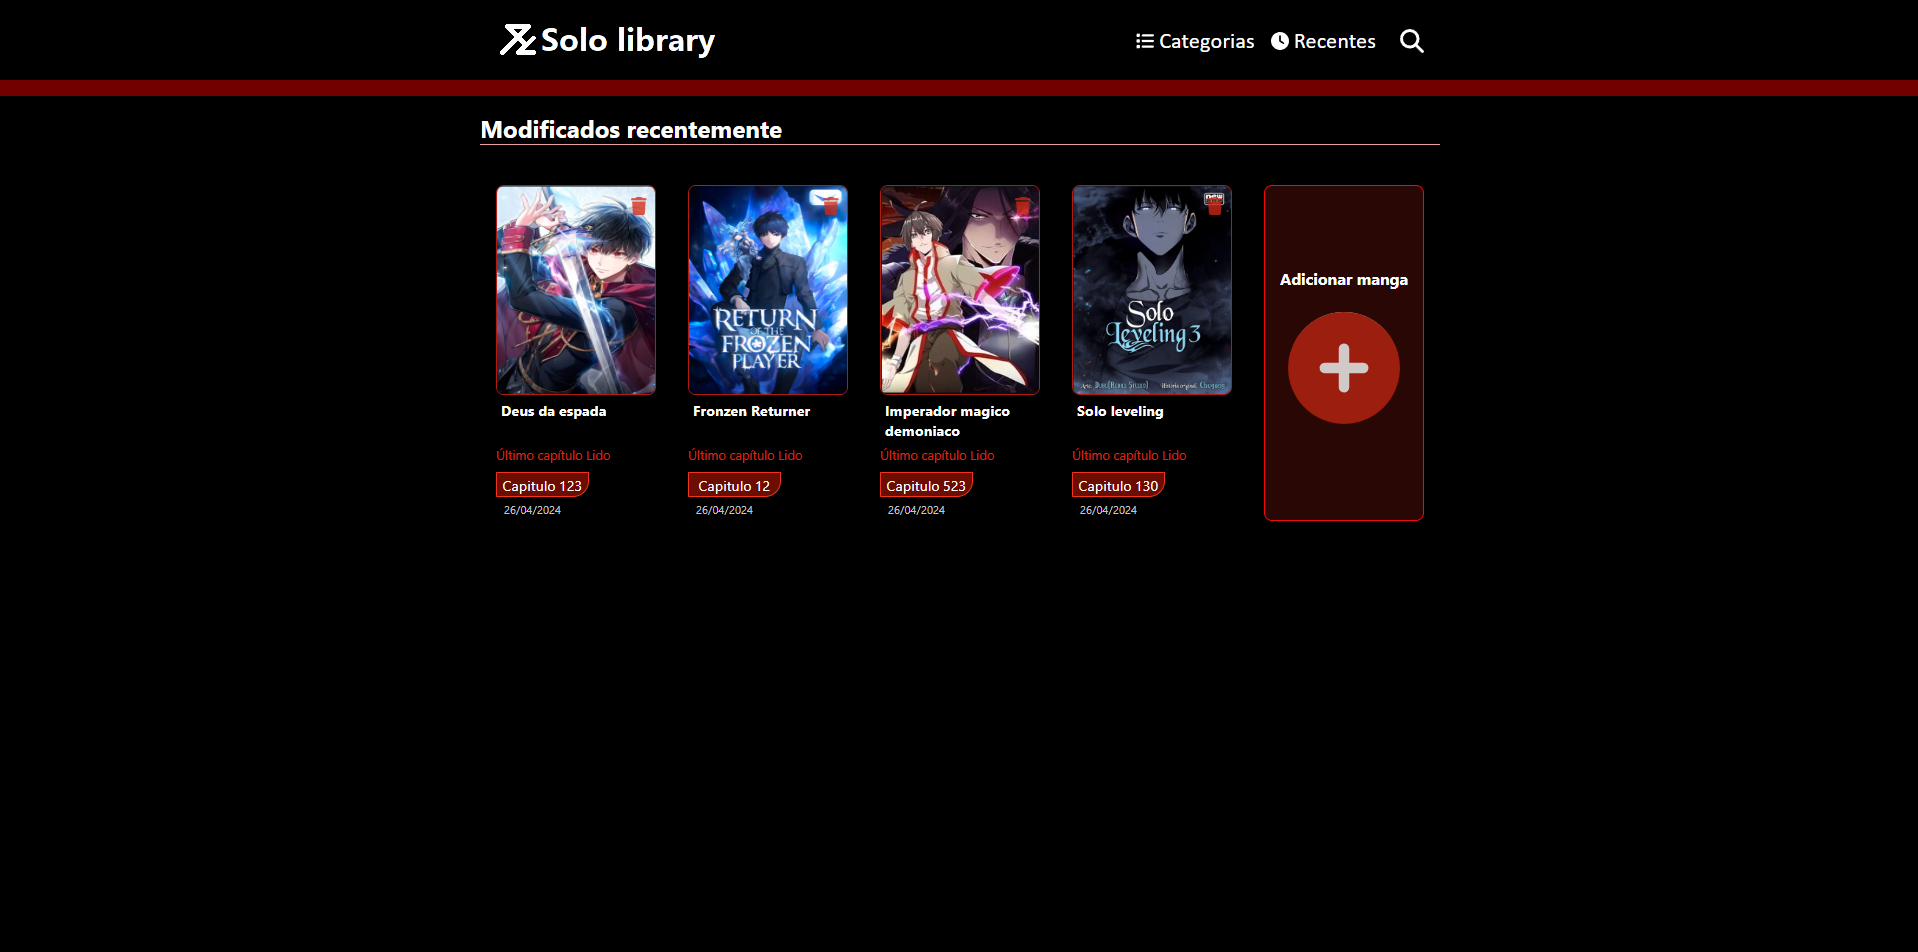
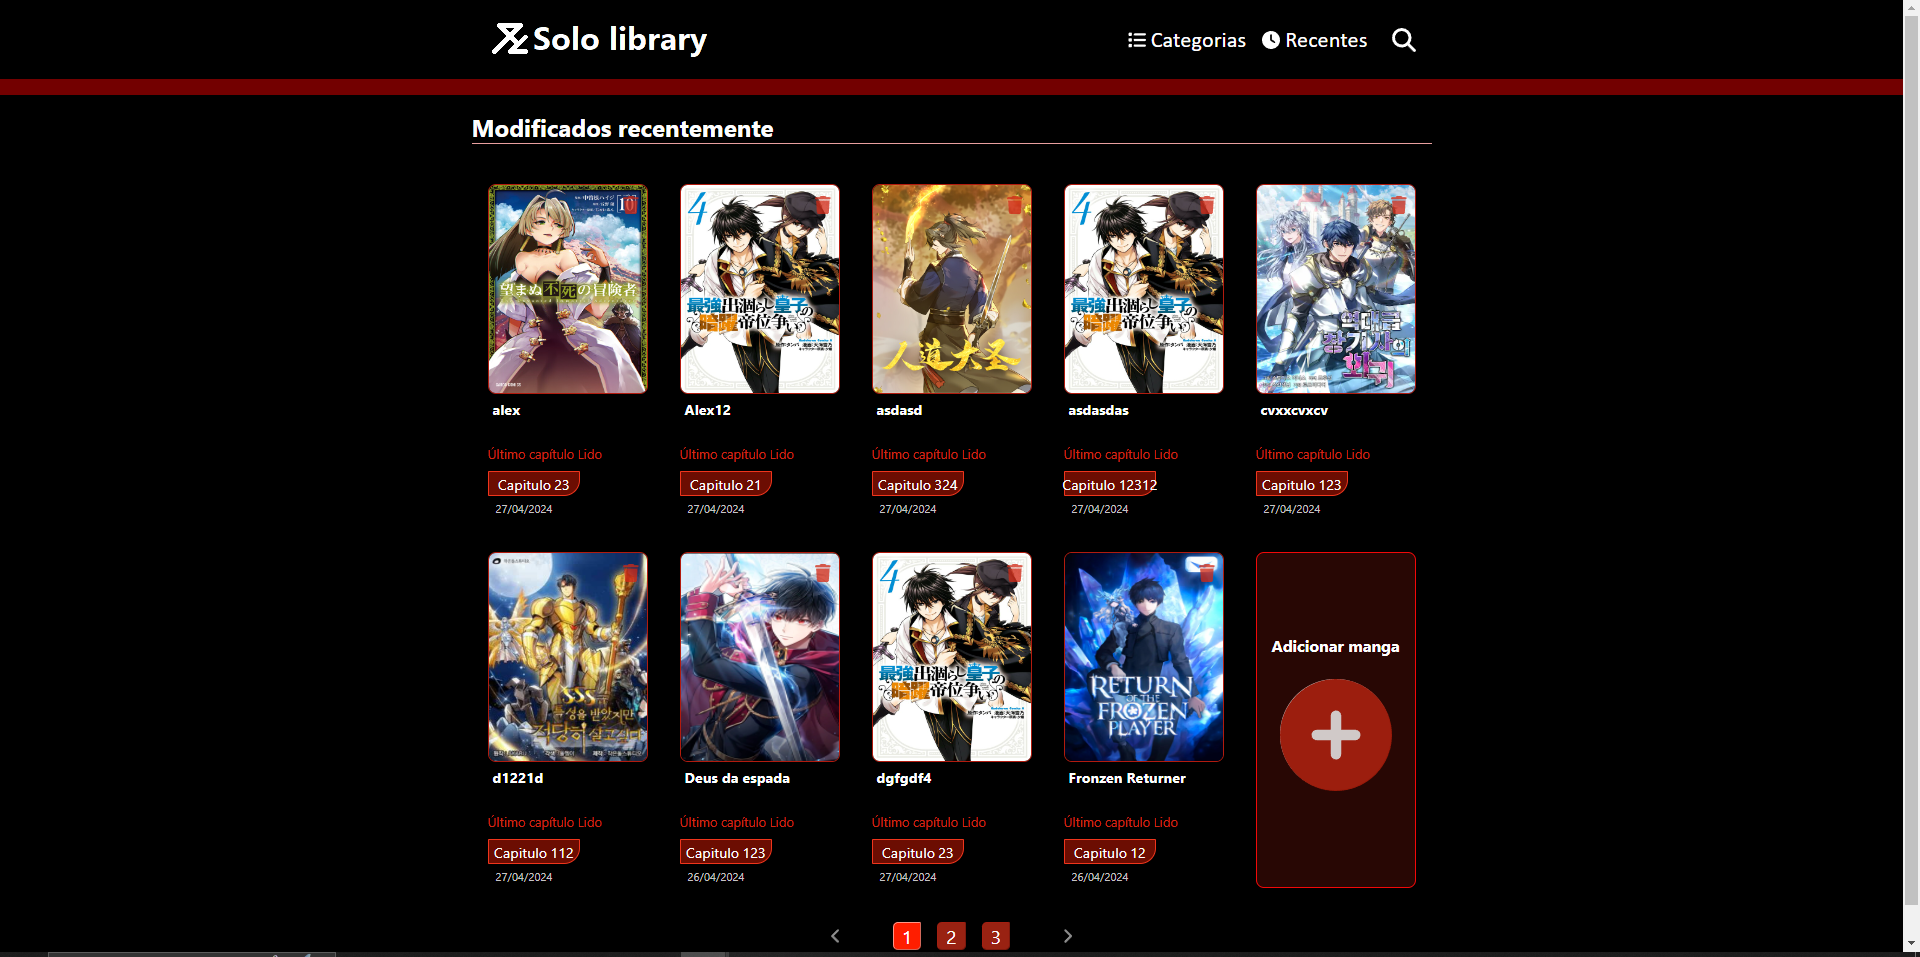
Adição da funcionalidade de paginação
criação do layout e funcionalidade para passar paginas.

diff --git a/library-app/src/app/components/flip-pages/flip-pages.component.ts b/library-app/src/app/components/flip-pages/flip-pages.component.ts
@@ -1,0 +1,43 @@
+import { Component, OnInit, Input } from '@angular/core';
+import { faAngleLeft, faAngleRight } from '@fortawesome/free-solid-svg-icons';
+import { CardApiService } from 'src/app/service/card-api.service';
+import { HomeComponent } from 'src/app/pages/home/home.component';
+
+@Component({
+  selector: 'app-flip-pages',
+  templateUrl: './flip-pages.component.html',
+  styleUrls: ['./flip-pages.component.css']
+})
+export class FlipPagesComponent implements OnInit {
+
+  faAngleLeft = faAngleLeft;
+  faAngleRight = faAngleRight;
+  totalPages!:number;
+  pagesCount!: number[];
+  selectedPage: number = 0; 
+  @Input() countPages:number = 0;
+
+
+  
+  constructor(
+    private mangaService: CardApiService,
+    private homecomponent: HomeComponent
+  ) { }
+
+ 
+  ngOnInit(): void {
+    this.mangaService.getNumberPages().subscribe(async (response: any) => {
+      this.totalPages = response;
+      this.pagesCount = Array(this.totalPages).fill(0).map((x, i) => i + 1)
+    })
+  }
+
+  handleButtonClick(event: MouseEvent, page: number){
+    event.preventDefault();
+    if(page >= 0 && page < this.totalPages){
+      this.selectedPage = page
+      this.homecomponent.getMangas(page)
+    }
+  }
+
+}

diff --git a/library-app/src/app/components/flip-pages/flip-pages.component.css b/library-app/src/app/components/flip-pages/flip-pages.component.css
@@ -1,0 +1,52 @@
+.flip-pages-container{
+    display: flex;
+    align-items: center;
+    justify-content: space-around;
+    width: 18rem;
+    height: 2rem;
+    border: 1px solid #f0351c00;
+    border-radius: 10px;
+    margin: 2rem 0 3rem 0;
+    color: white;
+}
+
+.flip-pages-container{
+    margin:2rem auto;
+}
+
+.page-list{
+    text-decoration: none;
+    list-style: none;
+    display: flex;
+    font-size: 1.2rem;
+}
+
+.number-click{
+    background-color: #f0351ca3;
+    border: 1px outset #b21c0e78;
+    border-radius: 5px 1px 5px 5px;
+    margin: 0 0.5rem;
+    padding: 0 0.5rem;
+    text-decoration: none;
+    color: rgb(255, 255, 255);
+}
+
+.pass-arrow{
+    text-decoration: none;
+    color: rgba(255, 255, 255, 0.548);
+}
+
+ 
+.page-number > a:hover{
+    background-color: #430202f7;
+    color: #ff1e00;
+}
+
+.pass-arrow:hover{
+    color: #ff1e00;
+}
+
+.selected-page{
+    background-color: #ff1e00;
+    border-color: rgba(255, 255, 255, 0.535);
+}

diff --git a/library-app/src/app/pages/home/home.component.ts b/library-app/src/app/pages/home/home.component.ts
@@ -1,4 +1,4 @@
-import { Component, OnInit } from '@angular/core';
+import { Component, OnInit, Output } from '@angular/core';
 import { CardApiService } from '../../service/card-api.service';
 import { mangaModel } from 'src/app/components/models/mangaModel';
 import { DatePipe } from '@angular/common';
@@ -21,11 +21,15 @@ export class HomeComponent implements OnInit {
   constructor(private apiService: CardApiService, private datePipe: DatePipe) { }
 
   ngOnInit(): void {
+    this.getMangas(0);
+  }
+
+  @Output() getMangas(page: number){
+    this.pageable.page = page.toString();
     this.apiService.getAllManga(this.pageable).subscribe(
       data => {
         this.dados = data.content.map(manga => {
           manga.capDate = this.datePipe.transform(manga.capDate, 'dd/MM/yyyy');
-          console.log(manga)
           return manga;
         });
       },

diff --git a/library-app/src/app/app.module.ts b/library-app/src/app/app.module.ts
@@ -19,6 +19,7 @@ import {AngularFireStorageModule} from '@angular/fire/compat/storage'
 import { environment } from 'src/environments/environment';
 import { LoadingComponent } from './components/loading/loading.component';
 import { DetailsComponent } from './pages/details/details.component';
+import { FlipPagesComponent } from './components/flip-pages/flip-pages.component';
 @NgModule({
   declarations: [
     AppComponent,
@@ -28,7 +29,8 @@ import { DetailsComponent } from './pages/details/details.component';
     MoreCardBtnComponent,
     MangaFormComponent,
     LoadingComponent,
-    DetailsComponent
+    DetailsComponent,
+    FlipPagesComponent
   ],
   imports: [
     BrowserModule,

diff --git a/library-app/src/app/components/flip-pages/flip-pages.component.html b/library-app/src/app/components/flip-pages/flip-pages.component.html
@@ -1,0 +1,11 @@
+<div class="flip-pages-container">
+    <a class="pass-arrow" (click)="handleButtonClick($event, (selectedPage -1))" href=""><fa-icon [icon]="faAngleLeft" style="font-size: 18px;"></fa-icon></a>
+    <ol class="page-list">
+        <li *ngFor="let page of pagesCount; 
+        let i = index" class="page-number" 
+        (click)="handleButtonClick($event, i)">
+            <a class="number-click" href="" [class.selected-page]="i==selectedPage">{{ i + 1 }}</a>
+        </li>
+    </ol>
+    <a class="pass-arrow" (click)="handleButtonClick($event, (selectedPage+1))"  href=""><fa-icon  [icon]="faAngleRight" style="font-size: 18px;"></fa-icon></a>  
+</div>

diff --git a/library-app/src/app/components/manga-form/manga-form.component.ts b/library-app/src/app/components/manga-form/manga-form.component.ts
@@ -58,8 +58,7 @@ export class MangaFormComponent implements OnInit {
   async saveFile(){
     const path = `mangaImg/${this.mangaDTO.title + this.selectedFile}`
     const uploadTask = await this.fireStorage.upload(path, this.selectedFile)
-    const url = await uploadTask.ref.getDownloadURL()
-    console.log(url)  
+    const url = await uploadTask.ref.getDownloadURL() 
     this.mangaDTO.urlImg = url;
 
   }

diff --git a/library-app/src/app/service/card-api.service.ts b/library-app/src/app/service/card-api.service.ts
@@ -34,11 +34,15 @@ export class CardApiService {
   }
 
   deleteMangaById(Id: string){
-    return this.http.delete(`${this.apiUrl}/${Id}`)
+    return this.http.delete(`${this.apiUrl}/${Id}`);
   }
 
   editManga(Id: string, mangaModel: mangaModel){
     return this.http.put(`${this.apiUrl}/${Id}`, mangaModel)
+  }
+
+  getNumberPages(){
+    return this.http.get(`${this.apiUrl + "/pages"}`);
   }
 
 }

diff --git a/library-app/src/app/components/manga-card/manga-card.component.ts b/library-app/src/app/components/manga-card/manga-card.component.ts
@@ -30,7 +30,6 @@ export class MangaCardComponent implements OnInit {
     this.loading();
     this.mangaService.deleteMangaById(this.id).subscribe(
       async () => {
-        console.log("manga deletado com sucesso")
         await this.deleteFile(this.cardImg)
         window.location.reload();
       },

diff --git a/library-app/src/app/components/main-menu/main-menu.component.ts b/library-app/src/app/components/main-menu/main-menu.component.ts
@@ -31,7 +31,6 @@ export class MainMenuComponent implements OnInit {
   }
   submitSearch(){
     if(this.inputValue!=''){
-      console.log(this.inputValue);
       this.inputValue = '';
     }
     this.inputView = !this.inputView;

diff --git a/library-app/src/app/pages/home/home.component.html b/library-app/src/app/pages/home/home.component.html
@@ -20,6 +20,8 @@
             </li>
             <app-more-card-btn></app-more-card-btn>
         </ul>
-    </div>
+    </div>  
 </div>
+<app-flip-pages></app-flip-pages>
+
 
